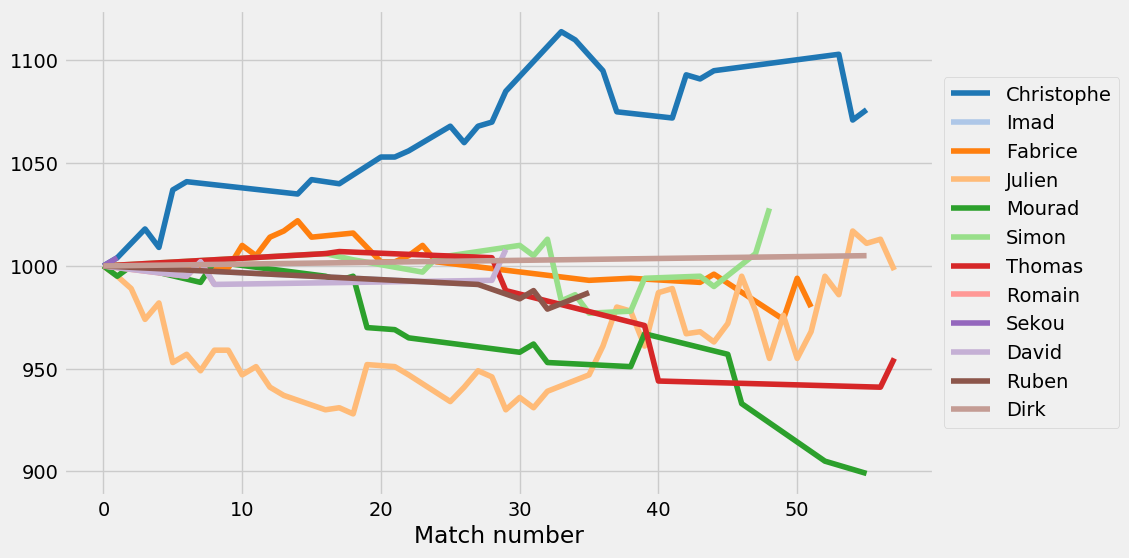
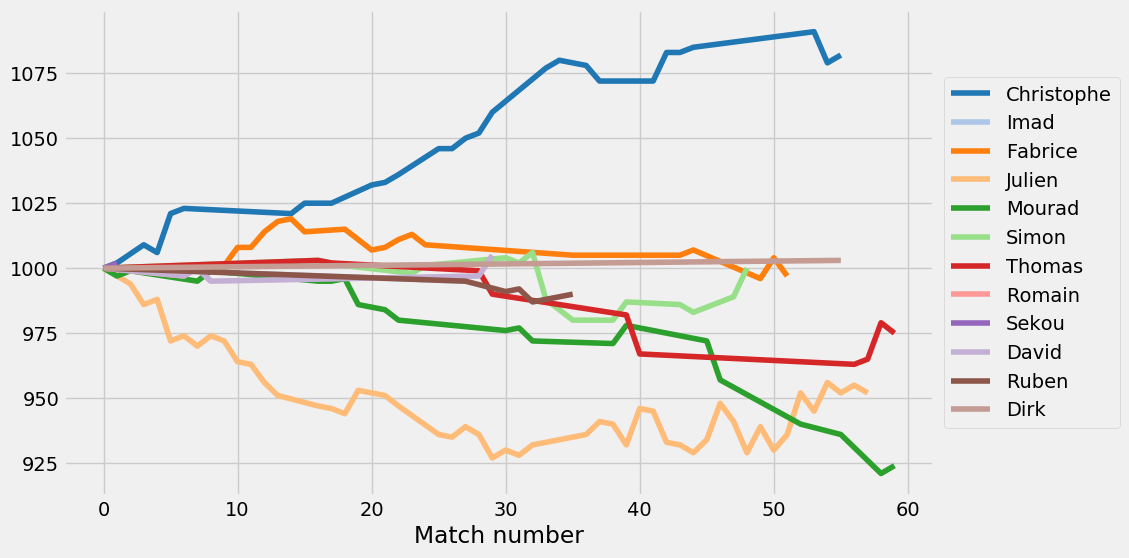
Add scores, change factors in ELO scoring

diff --git a/server.py b/server.py
@@ -173,15 +173,15 @@ class myHandler(BaseHTTPRequestHandler):
                 actual_score = scores[0] / (scores[0] + scores[1])
 
                 if len(players) == 2:
-                    expected_score = 1 / (1 + 10**((elos[1] - elos[0])/500))
-                    updated_elos.append(elos[0] + 10 * max(scores) * (actual_score - expected_score))
-                    updated_elos.append(elos[1] + 10 * max(scores) * (expected_score - actual_score)) 
-                else:
-                    expected_score = 1 / (1 + 10**(((((elos[2] + elos[3]) / 2) - ((elos[0] + elos[1])) / 2)) / 500))
+                    expected_score = 1 / (1 + 10**((elos[1] - elos[0])/1000))
                     updated_elos.append(elos[0] + 5 * max(scores) * (actual_score - expected_score))
-                    updated_elos.append(elos[1] + 5 * max(scores) * (actual_score - expected_score))
-                    updated_elos.append(elos[2] + 5 * max(scores) * (expected_score - actual_score)) 
-                    updated_elos.append(elos[3] + 5 * max(scores) * (expected_score - actual_score)) 
+                    updated_elos.append(elos[1] + 5 * max(scores) * (expected_score - actual_score)) 
+                else:
+                    expected_score = 1 / (1 + 10**(((((elos[2] + elos[3]) / 2) - ((elos[0] + elos[1])) / 2)) / 1000))
+                    updated_elos.append(elos[0] + 2.5 * max(scores) * (actual_score - expected_score))
+                    updated_elos.append(elos[1] + 2.5 * max(scores) * (actual_score - expected_score))
+                    updated_elos.append(elos[2] + 2.5 * max(scores) * (expected_score - actual_score)) 
+                    updated_elos.append(elos[3] + 2.5 * max(scores) * (expected_score - actual_score)) 
                     
                 for player,updated_elo in zip(players,updated_elos): 
                     new_elo_entry = {
